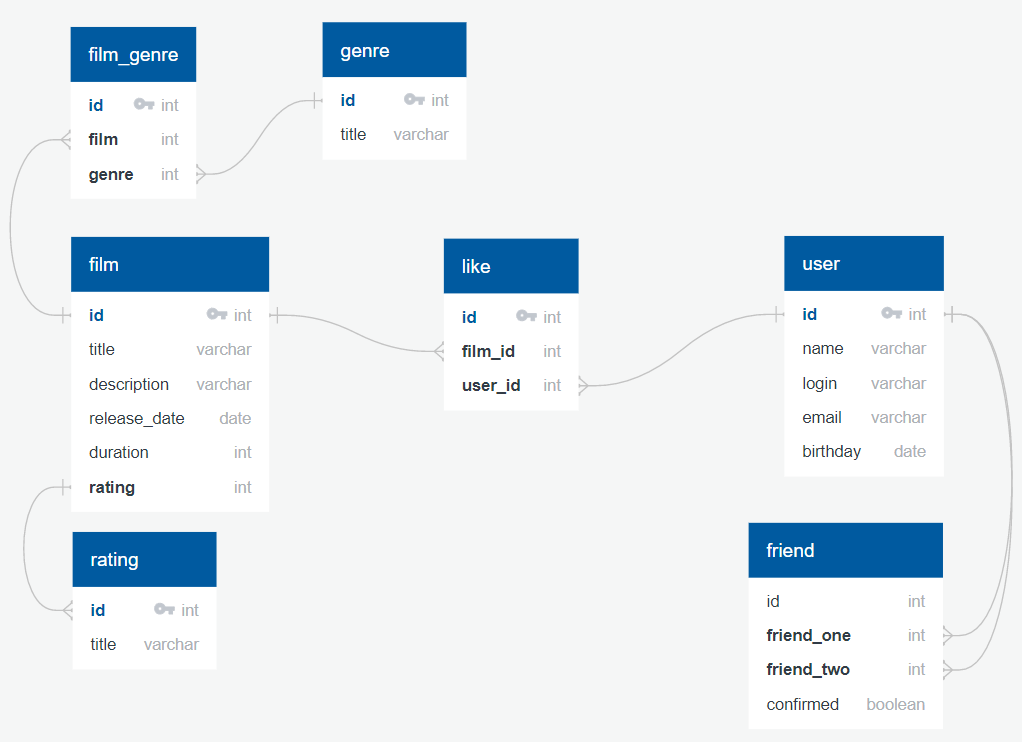
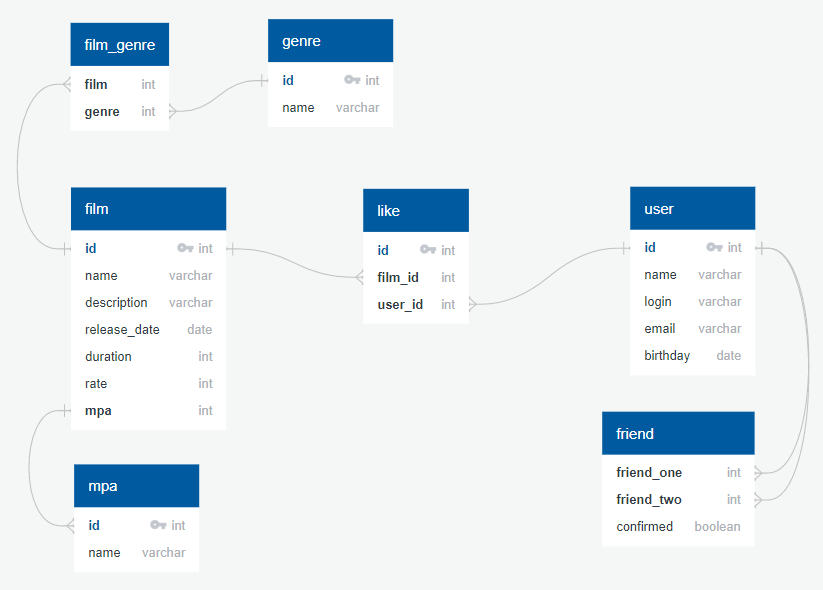
refactor: delete id column in friends table

diff --git a/src/main/java/ru/yandex/practicum/filmorate/dao/FriendsDbStorage.java b/src/main/java/ru/yandex/practicum/filmorate/dao/FriendsDbStorage.java
@@ -31,8 +31,7 @@ public class FriendsDbStorage {
      * @param friendId идентификатор друга, которого добавляет пользователь
      */
     public void deleteFriendship(long userId, long friendId) {
-        String sqlQuery = "DELETE FROM FRIENDS WHERE ID = (SELECT ID FROM FRIENDS " +
-                "WHERE FRIEND_ONE = ? AND FRIEND_TWO = ?)";
+        String sqlQuery = "DELETE FROM FRIENDS WHERE FRIEND_ONE = ? AND FRIEND_TWO = ?";
 
         jdbcTemplate.update(sqlQuery, userId, friendId);
     }
